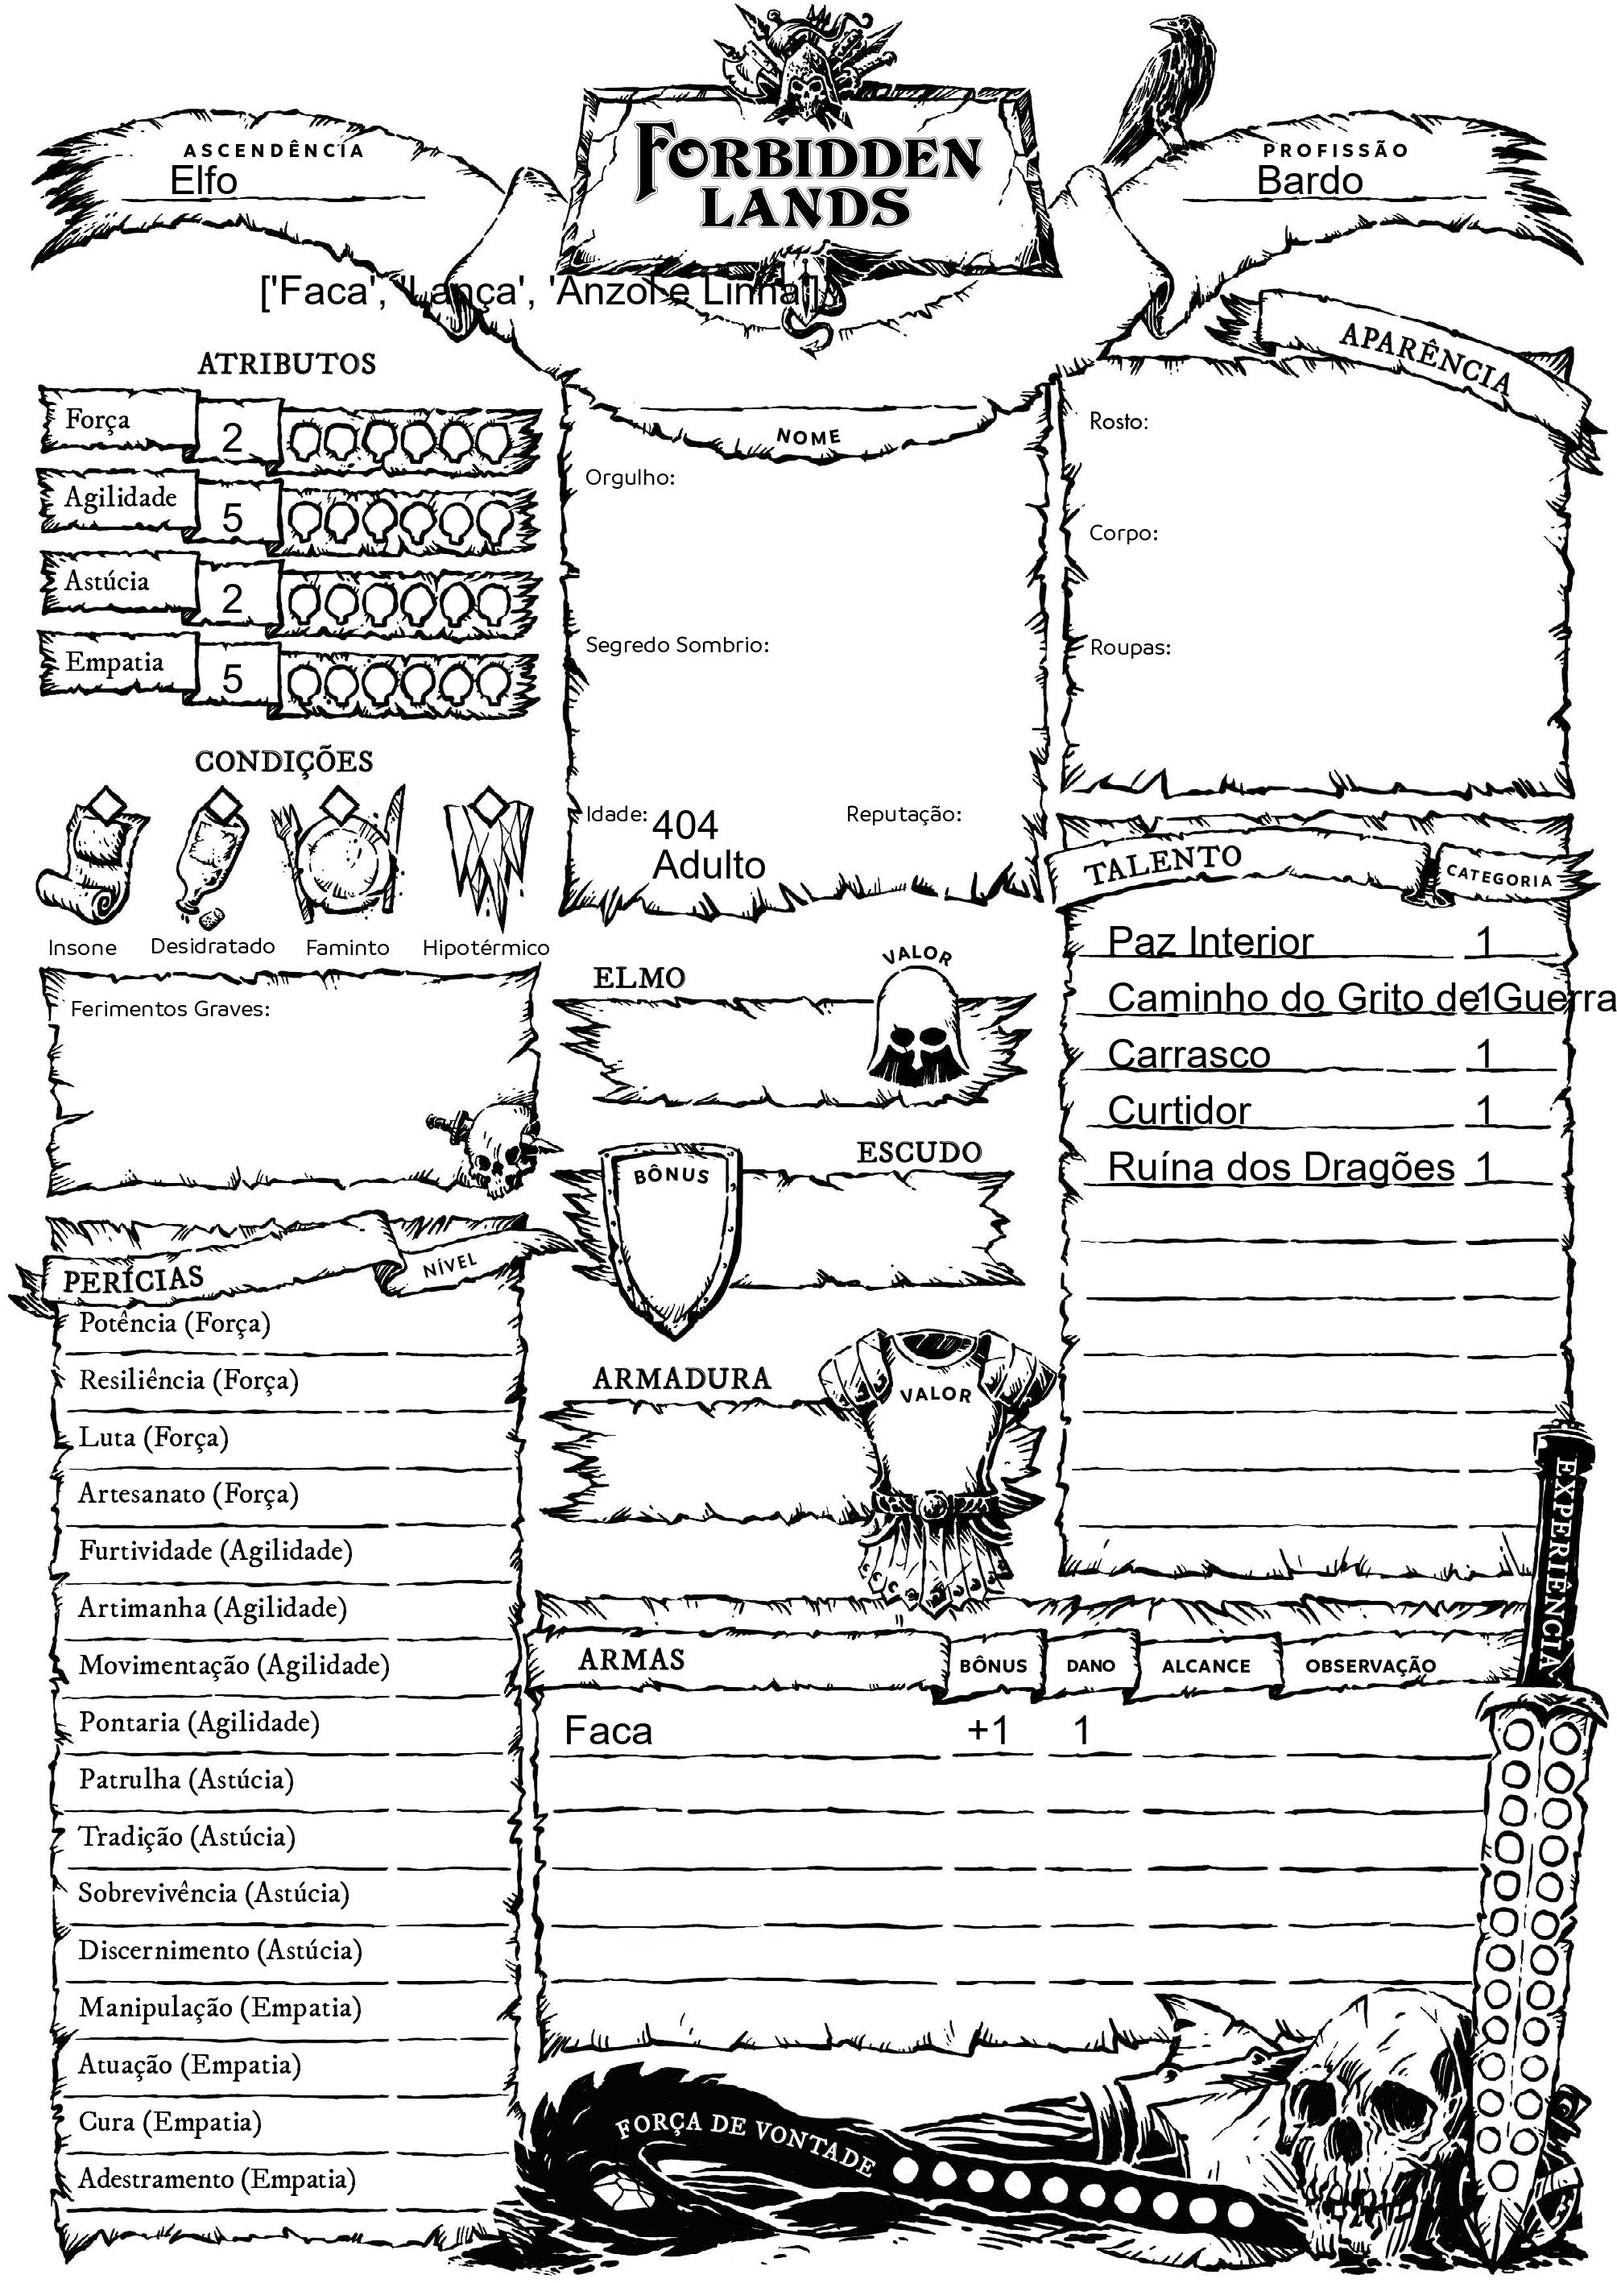
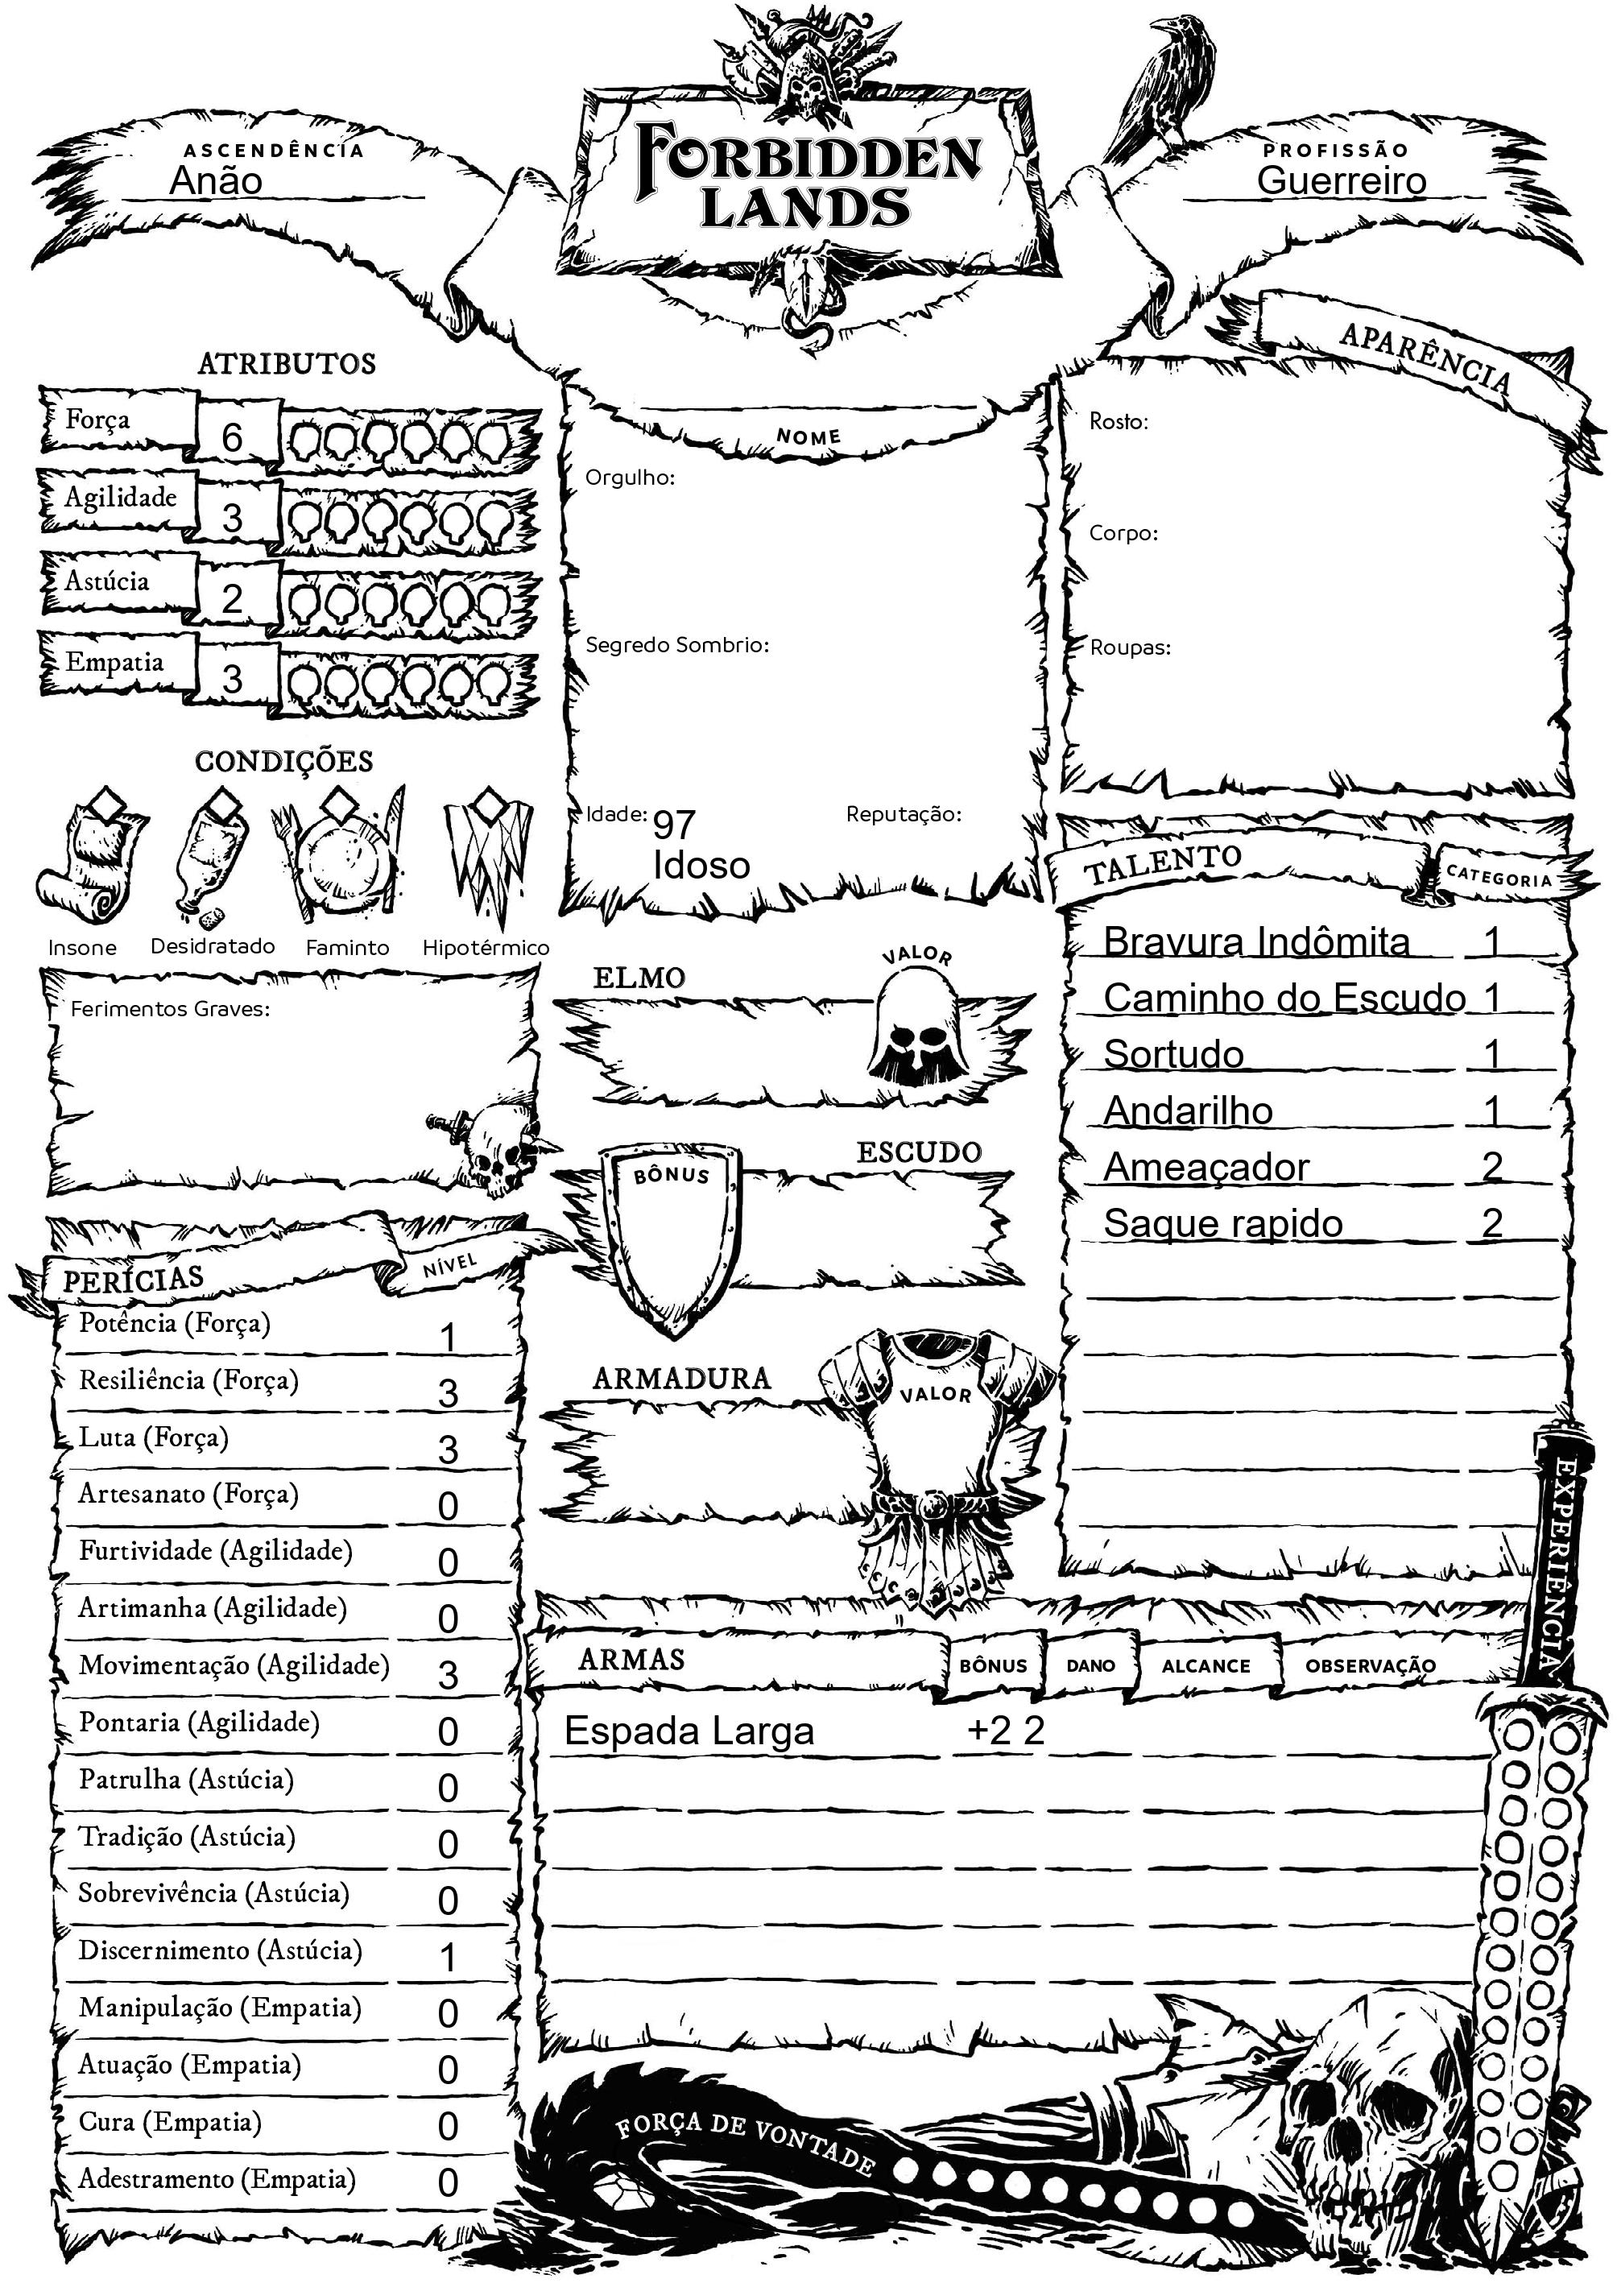
Aprimoramentos na geração de fichas
Adicionada as coordenadas necessárias de pericias e a lógica para imprimi-las na ficha. Também foram feitas melhorias na detecção de XP máximo na ficha.

diff --git a/Modulos/util.py b/Modulos/util.py
@@ -315,6 +315,16 @@ def dividir_XP(talentos_escolhidos, pericias_distribuidas, classe, pericias):
         print("Digite um número inteiro válido.")
         return dividir_XP(talentos_escolhidos, pericias_distribuidas, classe, pericias)
 
+    #Declarando lista de pericias e talentos para o while que vai acontecer
+    pericias_disponiveis = list(pericias.keys())
+    talentos_disponiveis = list(talentos_gerais[classe])
+
+    # Variáveis para controlar se todas as opções estão no máximo
+    todas_pericias_maximo = False
+    todos_talentos_maximo = False
+    pericias_disponiveis_para_aumentar = False
+    talentos_disponiveis_para_aumentar = False
+
     while pontos_xp > 0:
         opcoes = [
             "Perícia nova",
@@ -327,22 +337,24 @@ def dividir_XP(talentos_escolhidos, pericias_distribuidas, classe, pericias):
 
         if escolha == "Perícia nova":
             custo = 5
-            nova_pericia = random.choice(list(pericias.keys()))
+            if not pericias_disponiveis:
+                print("Todas as perícias estão distribuídas. Escolhendo novamente.")
+                todas_pericias_maximo = True
+                continue  # Pule esta iteração do loop
+            nova_pericia = random.choice(pericias_disponiveis)
 
-            while nova_pericia in pericias_distribuidas:
-                print("Perícia já distribuída. Escolhendo novamente.")
-                nova_pericia = random.choice(list(pericias.keys()))
-
+            pericias_disponiveis.remove(nova_pericia)
             pericias_distribuidas[nova_pericia] = 1
 
         elif escolha == "Talento novo":
             custo = 3
-            novo_talento = random.choice(talentos_gerais[classe])
+            if not talentos_disponiveis:
+                print("Todos os talentos disponíveis já foram escolhidos. Escolhendo novamente.")
+                todos_talentos_maximo = True
+                continue  # Pule esta iteração do loop
+            novo_talento = random.choice(talentos_disponiveis)
 
-            while novo_talento in talentos_escolhidos:
-                print("Talento já escolhido. Escolhendo novamente.")
-                novo_talento = random.choice(talentos_gerais[classe])
-
+            talentos_disponiveis.remove(novo_talento)
             talentos_escolhidos[novo_talento] = {"Nivel": 1}
 
         elif escolha == "Aumentar nivel de perícia":
@@ -351,6 +363,7 @@ def dividir_XP(talentos_escolhidos, pericias_distribuidas, classe, pericias):
 
             if not pericias_disponiveis_para_aumentar:
                 print("Todas as perícias estão no nível máximo. Escolhendo novamente.")
+                talentos_disponiveis_para_aumentar = True
                 continue  # Pula esta iteração do loop
 
             pericia_aumentar = random.choice(pericias_disponiveis_para_aumentar)
@@ -365,6 +378,7 @@ def dividir_XP(talentos_escolhidos, pericias_distribuidas, classe, pericias):
 
             if not talentos_disponiveis_para_aumentar:
                 print("Todos os talentos estão no nível máximo. Escolhendo novamente.")
+                pericias_disponiveis_para_aumentar = True
                 continue  # Pula esta iteração do loop
 
             talento_aumentar = random.choice(talentos_disponiveis_para_aumentar)
@@ -374,7 +388,12 @@ def dividir_XP(talentos_escolhidos, pericias_distribuidas, classe, pericias):
 
         pontos_xp -= custo
 
+        if todas_pericias_maximo and todos_talentos_maximo and pericias_disponiveis_para_aumentar and talentos_disponiveis_para_aumentar:
+            print("Sua ficha está no nível máximo, não é necessário mais XP")
+            break
+
     return talentos_escolhidos, pericias_distribuidas
+
 
 # Funcao para gerar informacoes da ficha
 def gerar_info_ficha(classe, raca, atributos_chave, idade, faixa_etaria, atributos_randomizados, talentos_escolhidos, pericias_distribuidas):

diff --git a/Modulos/MainFichaJPG.py b/Modulos/MainFichaJPG.py
@@ -69,6 +69,13 @@ vars = {
     "Dx_agua": Dx_agua
 }
 
+# Adiocionado todas as pericias que faltaram, para que sejam impressas nivel 0
+pericias_faltando = {pericia: 0 for pericia in pericias.keys() if pericia not in pericias_distribuidas}
+pericias_distribuidas.update(pericias_faltando)
+pericias_distribuidas = {k.lower(): v for k, v in pericias_distribuidas.items()}
+print(pericias_distribuidas)
+
+#=============================================================================================================================================
 # Carrega a imagem da ficha
 imagem_entrada = 'Pagina1.jpg'
 imagem_saida = 'Pagina1_preenchida.jpg'
@@ -76,6 +83,7 @@ imagem = Image.open(imagem_entrada)
 
 # Adicione todas as variáveis à ficha usando as coordenadas
 for variavel, cord in coordenadas_pag1.items():
+
     if variavel == "nivel_talento_cord" or variavel == "talento_cord":
         espacamento = 70  # Defina o valor do espaçamento aqui
         for i, (talento, nivel) in enumerate(talentos_escolhidos.items()):
@@ -83,34 +91,29 @@ for variavel, cord in coordenadas_pag1.items():
                 adicionar_texto_na_ficha(imagem, f"{talento}", cord, espacamento * i)
             elif variavel == "nivel_talento_cord":
                 nivel_valor = nivel['Nivel']
-
                 adicionar_texto_na_ficha(imagem, f"{nivel_valor}", cord, espacamento * i)
+
     elif variavel in ["Força_cord", "Agilidade_cord", "Inteligência_cord", "Empatia_cord"]:
-        print(type(atributos_randomizados), atributos_randomizados)
-        print(f"variavel: {variavel}")  # Adicione esta linha
         # Obtenha o valor do atributo a partir do seu nome
         valor_atributo = atributos_randomizados[variavel.split('_')[0]]
         adicionar_texto_na_ficha(imagem, str(valor_atributo), cord)
 
-
-    elif variavel == "info_armas_cord":
-        # Obtém as informações da arma em formato '+1 1'
-        info_armas_formatado = f"{info_armas['Bonus']} {info_armas['Dano']}"
-        # Divide o texto em duas partes
-        bonus, dano = info_armas_formatado.split()
-        # Defina um espaçamento personalizado
-        espacamento = 130
-        # Adicione o texto à imagem com o espaçamento personalizado
-        adicionar_texto_na_ficha(imagem, bonus, cord, 0)
-        adicionar_texto_na_ficha(imagem, dano, (cord[0] + espacamento, cord[1]), 0)
-
+    elif variavel in ["Potencia_cord", "Resiliência_cord", "Luta_cord", "Artesanato_cord", "Furtividade_cord",
+                  "Artimanha_cord", "Movimentação_cord", "Pontaria_cord", "Patrulha_cord", "Tradição_cord",
+                  "Sobrevivência_cord", "Discernimento_cord", "Manipulação_cord", "Atuação_cord", "Cura_cord",
+                  "Adestramento_cord"]:
+        chave_pericia = variavel.replace("_cord", "").lower()  # Remova o sufixo _cord e converta para minúsculas
+        valor_pericia = pericias_distribuidas.get(chave_pericia, 1)
+        adicionar_texto_na_ficha(imagem, str(valor_pericia), cord)
 
     else:
         # Obtenha a chave correspondente em vars
         chave_vars = mapa_chaves[variavel]
         # Obtenha o valor da variável a partir do seu nome
         valor = vars[chave_vars]
-        adicionar_texto_na_ficha(imagem, str(valor), cord)
+        # Verifique se o valor é uma lista ou um dicionário
+        if not isinstance(valor, (list, dict)):
+            adicionar_texto_na_ficha(imagem, str(valor), cord)
 
 # Salve a imagem com o texto adicionado
 imagem.save(imagem_saida)
@@ -120,3 +123,4 @@ webbrowser.open(imagem_saida)
 
 # Feche a imagem
 imagem.close()
+#=============================================================================================================================================

diff --git a/Modulos/FichaCoordenadas.py b/Modulos/FichaCoordenadas.py
@@ -4,28 +4,45 @@ from util import *
 coordenadas_pag1 = {
     "raca_cord": (210, 195),
     "classe_cord": (1560, 195),
-    #===== Atributos =====
+    #===== Atributos =====#
     "Força_cord": (275, 515),
     "Agilidade_cord": (275, 615),
     "Inteligência_cord": (275, 715),
     "Empatia_cord": (275, 815),
-    #====== Talento =======
-    "talento_cord": (1375, 1140),
-    "nivel_talento_cord": (1830, 1140),
-    #======================
+    #====== Talento =======#
+    "talento_cord": (1370, 1140),
+    "nivel_talento_cord": (1840, 1140),
+    #====== Talento =======#
+    "Potencia_cord": (543, 1632),
+    "Resiliência_cord": (543, 1702),
+    "Luta_cord": (543, 1772),
+    "Artesanato_cord": (543, 1842),
+    "Furtividade_cord": (543, 1912),
+    "Artimanha_cord": (543, 1982),
+    "Movimentação_cord": (543, 2052),
+    "Pontaria_cord": (543, 2122),
+    "Patrulha_cord": (543, 2192),
+    "Tradição_cord": (543, 2262),
+    "Sobrevivência_cord": (543, 2332),
+    "Discernimento_cord": (543, 2402),
+    "Manipulação_cord": (543, 2472),
+    "Atuação_cord": (543, 2542),
+    "Cura_cord": (543, 2612),
+    "Adestramento_cord": (543, 2682),
+    #======================#
     "idade_cord": (810, 996),
     "faixa_etaria_cord": (810, 1045),
-    "equipamentos_cord": (322, 332),
     "arma_escolhida_cord": (700, 2120),
     "info_armas_cord": (1200, 2120),
-    #======================
+    #======================#
 }
 
 #variavel com as coordenadas simples da pagina 2
 coordenadas_pag2 = {
     "Dx_comida": (322, 392),
     "Dx_agua": (322, 412),
-    "prata_rolada": (322, 432)
+    "prata_rolada": (322, 432),
+    "equipamentos_cord": (322, 332),
 }
 
 mapa_chaves = {
@@ -41,5 +58,21 @@ mapa_chaves = {
     "faixa_etaria_cord": "faixa_etaria",
     "equipamentos_cord": "equipamentos",
     "arma_escolhida_cord": "arma_escolhida",
-    "info_armas_cord": "info_armas"
+    "info_armas_cord": "info_armas",
+    "Potencia_cord": "pericias_distribuidas",
+    "Resiliência_cord": "pericias_distribuidas",
+    "Luta_cord": "pericias_distribuidas",
+    "Artesanato_cord": "pericias_distribuidas",
+    "Furtividade_cord": "pericias_distribuidas",
+    "Artimanha_cord": "pericias_distribuidas",
+    "Movimentação_cord": "pericias_distribuidas",
+    "Pontaria_cord": "pericias_distribuidas",
+    "Patrulha_cord": "pericias_distribuidas",
+    "Tradição_cord": "pericias_distribuidas",
+    "Sobrevivência_cord": "pericias_distribuidas",
+    "Discernimento_cord": "pericias_distribuidas",
+    "Manipulação_cord": "pericias_distribuidas",
+    "Atuação_cord": "pericias_distribuidas",
+    "Cura_cord": "pericias_distribuidas",
+    "Adestramento_cord": "pericias_distribuidas",
 }

diff --git a/Modulos/TestsMain.py b/Modulos/TestsMain.py
@@ -1,6 +1,4 @@
 from util import *
-from personagem import *
-
 
 # Gerar raca aleatoria
 raca, raca_info = gerar_raca()
@@ -8,7 +6,6 @@ raca, raca_info = gerar_raca()
 
 # Gerar classe aleatoria
 classe = gerar_classe(raca,racas_info,classes)
-#print(f"Classe: {classe}")
 
 # Funcao para obter atributos chave
 atributos_chave = obter_atributos_chave(classe, raca, raca_info)
@@ -43,17 +40,3 @@ else:
 gerar_info_ficha(classe, raca, atributos_chave, idade, faixa_etaria, atributos_randomizados, talentos_escolhidos, pericias_distribuidas)
 
 #===============================================================================
-
-# Criando variavel das infos da arma, Dx Comida e Dx Água
-info_armas = lista_armas_FINAL.get(arma_escolhida)
-Dx_comida = classe_info[classe]['dados_recurso']['Comida']
-Dx_agua = classe_info[classe]['dados_recurso']['Água']
-
-prata_rolada = rolar_dados_prata(classe_info[classe]["dados_recurso"]["Prata"])
-print(f"prata: {prata_rolada}")
-
-Teste1 = Personagem(raca, classe, atributos_randomizados, idade, faixa_etaria, talentos_escolhidos,
-                       pericias_distribuidas, equipamentos, arma_escolhida, info_armas, Dx_comida, Dx_agua, prata_rolada)
-
-# Imprimindo o objeto Personagem
-print(Teste1)
